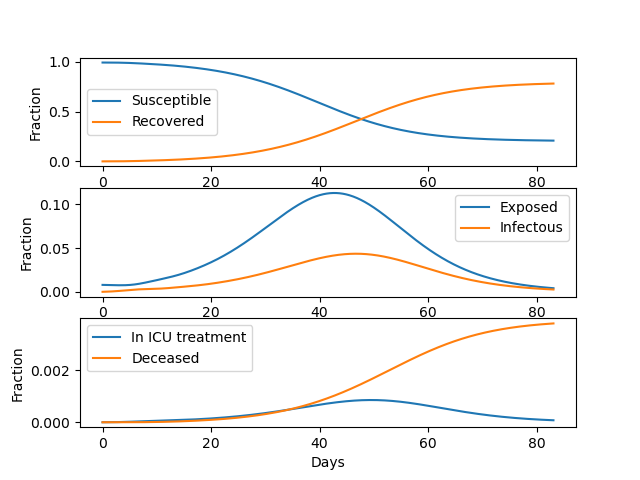
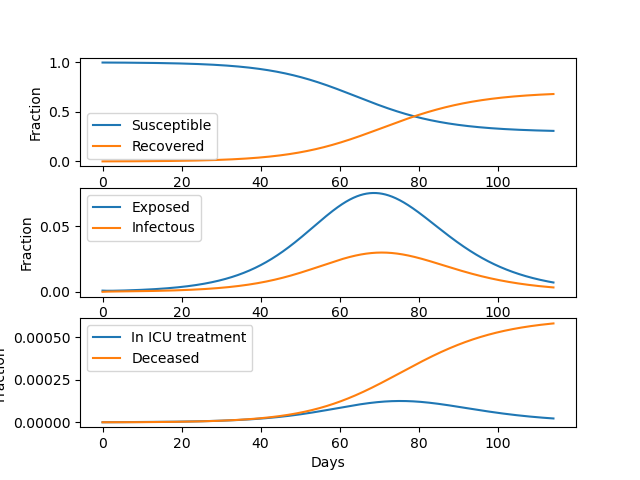
Updated images

diff --git a/simulations/simulation2.py b/simulations/simulation2.py
@@ -59,15 +59,15 @@ def loss_function(x):
 xopt = minimize(loss_function, x0, method='Nelder-Mead', tol=1e-6, options={'maxiter': 500})
 R0opt = f'{xopt["x"][1]:.3f}'
 #ICRopt = f'{xopt["x"][2]:.3f}'
-ICRopt = f'{ICR:.3f}'
-CFRopt = f'{xopt["x"][2]:.3f}'
+IICopt = f'{xopt["x"][2]:.3f}'
+ICRopt = f'{xopt["x"][3]:.3f}'
 
 print('Final result')
 print(xopt['x'])
 print('Initally exposed: ' + str(xopt['x'][0]))
 print('R0: ' + R0opt)
+print('IIC: ' + IICopt)
 print('ICR: ' + ICRopt)
-print('CFR: ' + CFRopt)
 simulated = seird_simulate(xopt['x'], Npoints + 60)
 
 pdata = simulated['plot_data']
@@ -91,7 +91,7 @@ plt.grid()
 plt.show()
 
 
-plot_comparison(official, simulated, 'Country=' + country + ', R0=' + R0opt + ', ICR=' + ICRopt + ', CFR=' + CFRopt )
+plot_comparison(official, simulated, 'Country=' + country + ', R0=' + R0opt + ', ICR=' + ICRopt + ',IIC=' + IICopt )
 
 
 plt.subplot(3, 1, 1)
